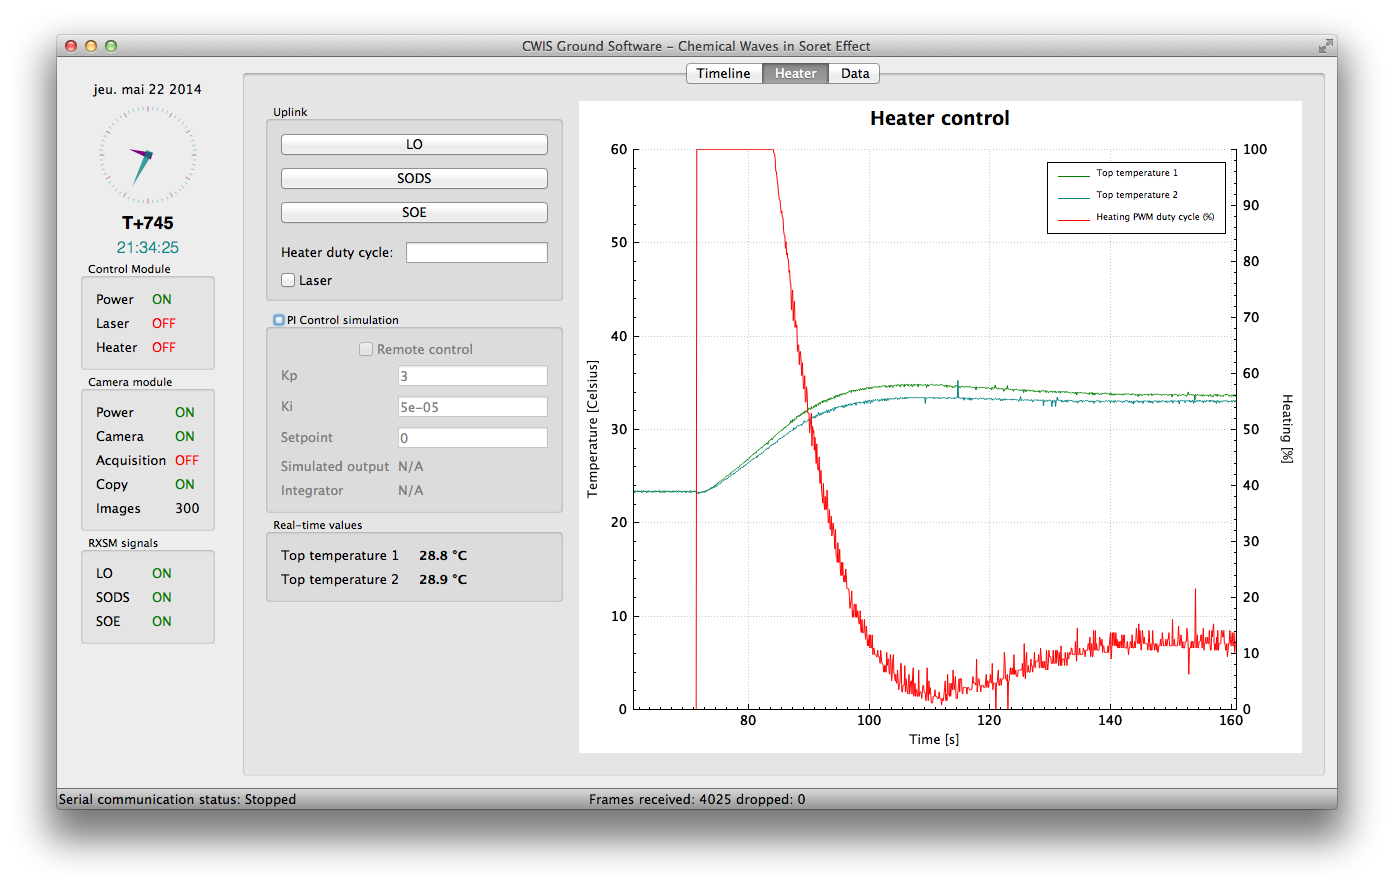
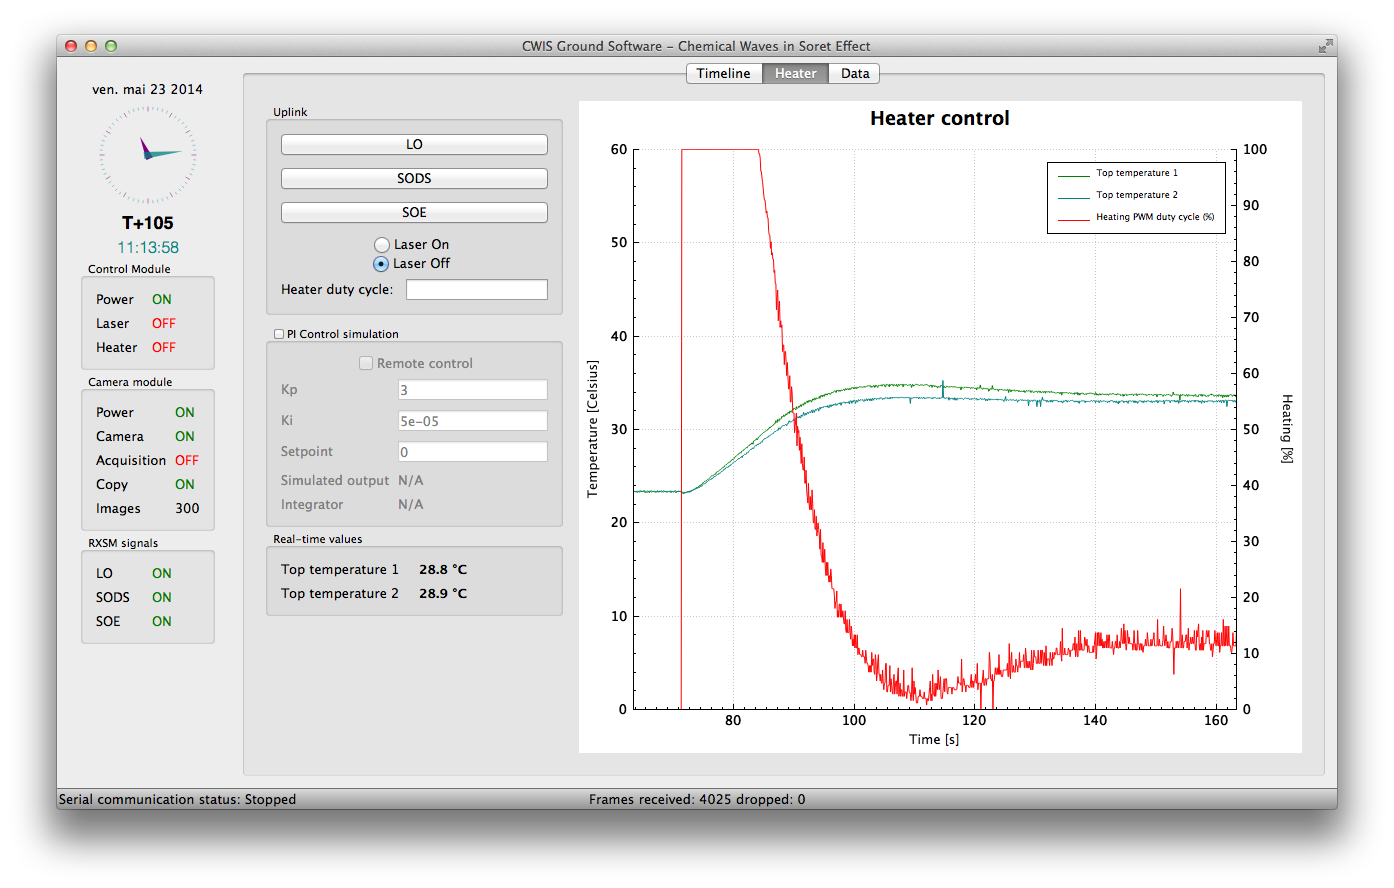
Fixed minor details and updated the manual.
- Enhanced the laser uplink command
- Fixed an issue where the serial device could not be used if connected
  after launching the program
- Fixed an issue where the number of images was not cleared when clearing
  acquired data.

diff --git a/cwis-gs/serial/serialportdialog.cpp b/cwis-gs/serial/serialportdialog.cpp
@@ -18,12 +18,7 @@ SerialPortDialog::SerialPortDialog(QWidget *parent) :
     m_paritySelector   = new QComboBox();
     m_stopBitsSelector = new QComboBox();
 
-    foreach(const QSerialPortInfo &info, QSerialPortInfo::availablePorts()) {
-
-        if(!info.isBusy()) {
-            m_deviceSelector->addItem(info.portName());
-        }
-    }
+    this->updateSerialDevicesList();
 
     m_baudrateSelector->insertItem(m_baudrateSelector->count(), "1200 bps", QSerialPort::Baud1200);
     m_baudrateSelector->insertItem(m_baudrateSelector->count(), "2400 bps", QSerialPort::Baud2400);
@@ -99,4 +94,23 @@ SerialPortConfig SerialPortDialog::getSerialPortConfig() const {
     config.stopBits = (QSerialPort::StopBits) m_stopBitsSelector->itemData(m_stopBitsSelector->currentIndex()).toInt();
 
     return config;
+}
+
+void SerialPortDialog::showEvent(QShowEvent *event)
+{
+    QDialog::showEvent(event);
+
+    this->updateSerialDevicesList();
+}
+
+void SerialPortDialog::updateSerialDevicesList()
+{
+    m_deviceSelector->clear();
+
+    foreach(const QSerialPortInfo &info, QSerialPortInfo::availablePorts()) {
+
+        if(!info.isBusy()) {
+            m_deviceSelector->addItem(info.portName());
+        }
+    }
 }

diff --git a/cwis-gs/mainwindow.cpp b/cwis-gs/mainwindow.cpp
@@ -394,14 +394,11 @@ void MainWindow::closeEvent(QCloseEvent *event) {
         QMessageBox::StandardButton reply;
         reply = QMessageBox::warning(this, tr("Application"),
                                      tr("You have not saved the data.\n"
-                                        "Save it?"),
-                                     QMessageBox::Save | QMessageBox::Discard | QMessageBox::Cancel);
+                                        "Quit?"),
+                                     QMessageBox::Yes | QMessageBox::No);
 
         switch(reply) {
-        case QMessageBox::Save:
-            this->saveRecordedData();
-            this->saveRawData();
-        case QMessageBox::Discard:
+        case QMessageBox::Yes:
             event->accept();
             break;
         default:

diff --git a/manual/gs-manual.tex b/manual/gs-manual.tex
@@ -98,8 +98,6 @@ This is done using the \emph{Serial port parameters} dialog accessible from the 
 After configuring it, you can start the serial communication using the \textbf{Serial/Start} action.
 Note that the dialog pops up automatically if you try to start an unconfigured connection. \\
 
-Please note that the serial USB adapter must be connected to the computer before starting the ground software application.
-
 \subsection{Saving the data}
 
 The data can be saved in two formats. The standard saving method, using the \textbf{File/Save} menu, saves the data in a formatted file for easy parsing. The second method saves the raw data from the serial frames (see \ref{section:downlink}), thus saving all information received from the module.

diff --git a/cwis-gs/serial/serialportdialog.h b/cwis-gs/serial/serialportdialog.h
@@ -23,6 +23,8 @@ signals:
 public slots:
 
 private:
+    void showEvent(QShowEvent *event);
+
     QComboBox *m_deviceSelector;
     QComboBox *m_baudrateSelector;
     QComboBox *m_dataBitsSelector;
@@ -41,6 +43,9 @@ private:
     QGridLayout *m_selectorsLayout;
     QHBoxLayout *m_buttonsLayout;
     QVBoxLayout *m_mainLayout;
+
+private slots:
+    void updateSerialDevicesList();
 };
 
 #endif // SERIALPORTDIALOG_H

diff --git a/cwis-gs/interface/statuspanel.cpp b/cwis-gs/interface/statuspanel.cpp
@@ -149,6 +149,8 @@ void StatusPanel::clear()
     m_loStatusFlag->setStatus(false);
     m_sodsStatusFlag->setStatus(false);
     m_soeStatusFlag->setStatus(false);
+
+    m_cameraImagesStatus->setText(tr(""));
 }
 
 void StatusPanel::startChronometer(bool triggered)
